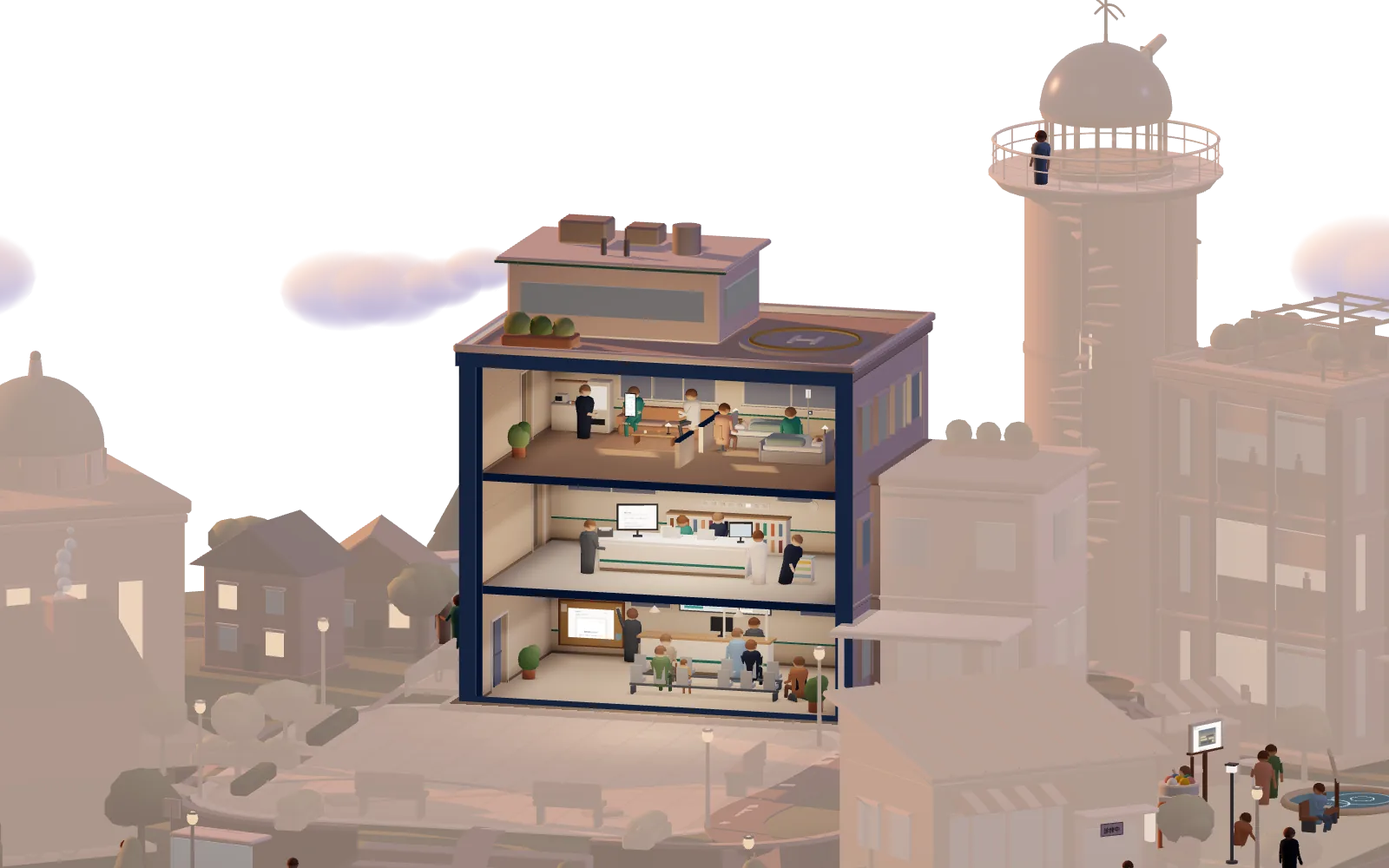
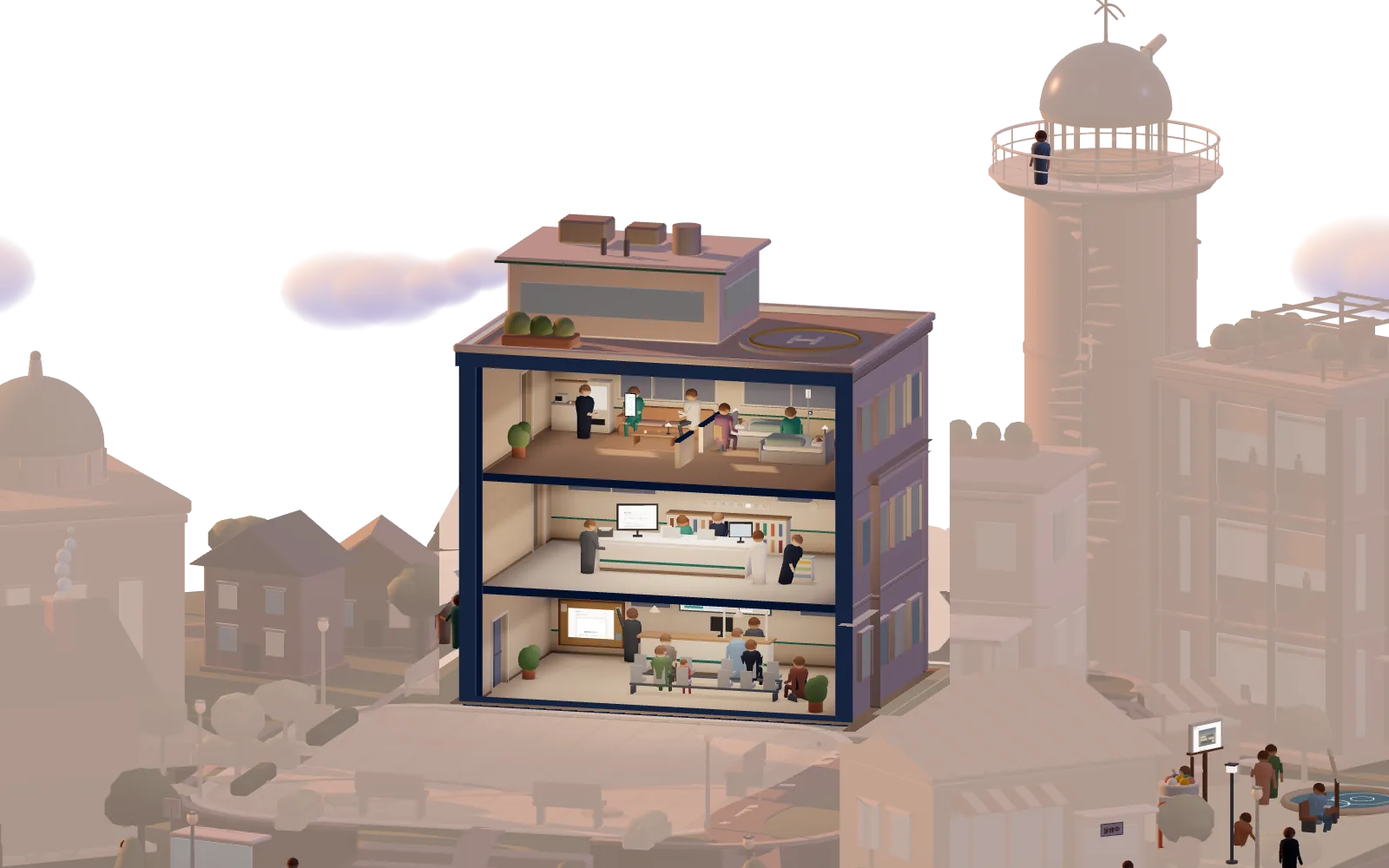
wip(top): 「ひらく町 v6」見直し 第1回・第2回の直し(一個の物として切り出す・夜の月の光・服の色・札を物の真上に・1.5画面・休憩室の灯り・背の低い画面・点描の区間)(途中保存)
Claude-Session: https://claude.ai/code/session_016dwt5JPBcjN3XLYgLUEaNS

diff --git a/proto/top-ad/hiraku6/live.js b/proto/top-ad/hiraku6/live.js
@@ -80,8 +80,9 @@ function arriveFrame(S, W, H, sf, small, hv, r1, el, F, cam) {
   let ppu, sy;
   if (small) {
     ppu = Math.min(84 * hv / 724 / (fh * Math.cos(el)), sw / (x1 - x0));
-    const gy = hv * .77;
-    if (gy - (y1 - g.y) * ppu < sf.t + 24) ppu = (gy - sf.t - 24) / (y1 - g.y);   // 塔屋が上の2行に近づきすぎるときは、小さく
+    let gy = hv * .77;
+    if (gy - (y1 - g.y) * ppu < sf.t + 24) gy = Math.min(sf.t + 24 + (y1 - g.y) * ppu, Math.max(gy, sf.b - 20));   // 背の低い画面: 塔屋が上の2行に近づきすぎるときは、まず地面の線を下の入口の上まで下げる
+    if (gy - (y1 - g.y) * ppu < sf.t + 24) ppu = (gy - sf.t - 24) / (y1 - g.y);   // それでも近づきすぎるときは、小さく
     sy = gy - (vF.y - g.y) * ppu;
   } else {
     ppu = Math.min(.62 * hv / (y1 - y0), sw * .8 / (x1 - x0));
@@ -113,6 +114,29 @@ function frontZone(S) {
 function markLocals(S) {
   const b = BOXES.hospital, ex = S.B.hospital.ex, fh = b.h / (b.floors || 3), out = b.w / 2 + E + WALL, z = b.d / 2 + E + .08;
   return { fl: [2, 1, 0].map(f => [out - .04, fh * f + fh * .84, z]), g: [0, -ex.y0, b.d / 2 + E + WALL] };
+}
+/* 道具の札の置き場(v6 見直し 第1回): その階の天井の前の切り口の線(両端を画面へ写す)の上で、横は物が画面に映る位置 sx。
+   斜めの視点では奥の物ほど右へ寄るので、前の面の同じ x を写すと三角が物の左を指す。W・H は画面の大きさ(100 なら枠の %) */
+function bandAt(group, fi, sx, cam, W, H) {
+  const b = BOXES.hospital, fh = b.h / (b.floors || 3), y = fh * (fi + 1) - .035, z = b.d / 2 + WALL + .01;
+  const a = group.localToWorld(new THREE.Vector3(-b.w / 2, y, z)).project(cam), c = group.localToWorld(new THREE.Vector3(b.w / 2, y, z)).project(cam);
+  const ax = (a.x + 1) / 2 * W, ay = (1 - a.y) / 2 * H, cx = (c.x + 1) / 2 * W, cy = (1 - c.y) / 2 * H;
+  return [sx, ay + (cy - ay) * (sx - ax) / (cx - ax)];
+}
+/* v6(見直し 第1回): 着いた病院を、一個の物として町から切り出す(world.js の HKAIR と FWIN が読む)。主棟と塔屋の箱、主棟の座標でのカメラの向きと画面の 8px(ch は画面の高さ CSS px)、
+   夜の月の光(右手前の上から。nk = 夜の度合い × 寄った度合い)。立体の舞台と止めた画像(capture の arrive=1)が同じものを使う */
+const MOON_L = new THREE.Vector3(.9, .25, .35).normalize(), MOON_I = .26, _md = new THREE.Vector3();   // 夜の右の側面(窓を除く)が L* 約50(案B と同じくらい。部屋より暗く)
+const AIR_LIT = .6;   // 着いたとき、病院の前の広場を照らす灯り(入口・弧のそばの藍と砂)を弱める割合
+function mainAir(S, cam, ch, nk) {
+  const b = BOXES.hospital, B = S.B.hospital;
+  B.anchor.updateWorldMatrix(true, false); U.uMainInv.value.copy(B.anchor.matrixWorld).invert();
+  U.uMainB.value.set(b.w / 2 + E + WALL + .09, b.d / 2 + E + WALL + .12);   // 主棟(角の付け柱・水切り・屋根の縁まで)。右の翼と車寄せは外
+  cam.updateMatrixWorld(); cam.getWorldDirection(_md).transformDirection(U.uMainInv.value);
+  U.uMainD.value.set(_md.x, _md.y, _md.z, 8 * (cam.top - cam.bottom) / ch);
+  U.uMainY.value.set(-B.ex.y0 - .01, b.h + .4, b.h, B.ex.top);
+  U.uMainP.value.set(-1.63, .39, -1.01, .41);   // 塔屋(buildings.js のセットバックした最上階と設備)
+  _md.copy(MOON_L).transformDirection(B.anchor.matrixWorld).transformDirection(cam.matrixWorldInverse);
+  U.uMoon.value.set(_md.x, _md.y, _md.z, MOON_I * nk);
 }
 
 /* ================================================================
@@ -159,16 +183,17 @@ export async function capture(Q) {
     if (!closed && !sect && !open5) U.uPM.value[2].copy(tb).multiply(new THREE.Matrix4().makeTranslation(0, 40, 0)).multiply(tbi);
     const arrive = Q.get('arrive') === '1' && cut === 'hospital';   // v6: 立体の到着の画(live の K1)とまったく同じ視点・枠で撮る(動きを減らす設定・WebGL なし・低性能の端末の「完成された断面画像」)
     if (arrive) {
-      const cw = +(Q.get('cw') || 393), ch = +(Q.get('ch') || 724), sm = cw < 921, sf = sm ? { l: 16, t: 110, r: cw - 16, b: ch - 86 } : { l: 40, t: 150, r: cw - 40, b: ch - 92 };
+      const cw = +(Q.get('cw') || 393), ch = +(Q.get('ch') || 724), sm = cw < 921, sf = sm ? { l: 16, t: 134, r: cw - 16, b: ch - 86 } : { l: 40, t: 150, r: cw - 40, b: ch - 92 };   // 上は 393×724 の「病院の中」と一文の下端(hiraku.js の scrubSafe)
       U.uRoofA.value = 1; U.uArcFade.value = 1; U.uPM.value[2].identity(); U.uPM.value[1].copy(tb).multiply(new THREE.Matrix4().makeTranslation(0, -200, 0)).multiply(tbi);   // 屋根は残し、前の壁は外す(沈んだ後)、広場の弧は消す
-      U.uFocus.value = LAYOUT.hospital.bid; U.uDim.value = .2; U.uAir.value = 1; U.uMainB.value.set(bx.w / 2 + E + WALL + .09, bx.d / 2 + E + WALL + .12);
+      U.uFocus.value = LAYOUT.hospital.bid; U.uDim.value = .2; U.uAir.value = 1;
       const F = pl.p.clone().add(new THREE.Vector3(0, (bx.h - b.ex.y0) / 2, 0)), r1 = deg(pl.face - 45) + deg(+(Q.get('turn') ?? -16)), el1 = deg(+(Q.get('el') ?? 11));
       const K = arriveFrame(S, cw, ch, sf, sm, ch, r1, el1, F, camera);
       S.world.rotation.y = r1; S.world.updateMatrixWorld(true);
-      b.anchor.updateWorldMatrix(true, false); U.uMainInv.value.copy(b.anchor.matrixWorld).invert();
       aimCamera(camera, new THREE.Vector3(), el1);
       const v = F.clone().applyAxisAngle(AY, r1).applyMatrix4(camera.matrixWorldInverse), cx = v.x - (K.sx - cw / 2) / K.ppu, cy0 = v.y + (K.sy - ch / 2) / K.ppu;
       camera.left = cx - cw / 2 / K.ppu; camera.right = cx + cw / 2 / K.ppu; camera.top = cy0 + ch / 2 / K.ppu; camera.bottom = cy0 - ch / 2 / K.ppu; camera.updateProjectionMatrix();
+      mainAir(S, camera, ch, clamp01((tod - 1.2) / .8));   // 一個の物として切り出す・夜の月の光(立体の舞台と同じ)
+      L.pH.intensity *= (1 - 1.4 * U.uDim.value) * (1 - AIR_LIT); L.pI.intensity *= 1 - AIR_LIT; L.pS.intensity *= 1 - AIR_LIT;   // 広場を照らす灯りも、立体の舞台と同じだけ弱める
       const fc = makeFrameCut(b.anchor); fc.g.visible = true; fc.mat.opacity = 1;   // 外枠の太い切り口
       placePeople(S.dyn, t, null, frontZone(S));   // 正面の広場に人を立たせない(立体の舞台と同じ)
     } else {
@@ -231,7 +256,7 @@ export async function capture(Q) {
       for (const q of s.quad || []) { const v = new THREE.Vector3(...q).applyMatrix4(it.group.matrixWorld).project(camera); x0 = Math.min(x0, v.x); x1 = Math.max(x1, v.x); y0 = Math.min(y0, v.y); y1 = Math.max(y1, v.y); }
       if (x0 <= x1) st[s.id] = [...pc(x0, y1), ...pc(x1, y0)];
       const FIX = { yawagaeshi: 2, nidodema: 1, keiji: 0 };   // 札の置き場(その階の天井の切り口。物の真上)。枠の %。階と道具の対応は BRIEF 14.2
-      if (cut === 'hospital' && FIX[s.id] !== undefined) { const fh = bx.h / (bx.floors || 3), v = new THREE.Vector3(s.anchor.x, fh * (FIX[s.id] + 1) - .035, bx.d / 2 + WALL + .01).applyMatrix4(it.group.matrixWorld).project(camera); band[s.id] = pc(v.x, v.y); }
+      if (cut === 'hospital' && FIX[s.id] !== undefined) { const v = s.anchor.clone().applyMatrix4(it.group.matrixWorld).project(camera); band[s.id] = bandAt(it.group, FIX[s.id], (v.x + 1) / 2 * 100, camera, 100, 100).map(q => +q.toFixed(2)); }
     }
   }
   let marks = null;   // v6: 階の印(3F・2F・1F)と正面の地面の線(枠の %)。ページが止めた画像の上に置く
@@ -440,13 +465,14 @@ export async function live(o) {
      ひらき方: 屋根は残す(ヘリポートで病院と分かり、3階だけ背が高く見えない)。前の壁は町と同じ手つきで倒れ、倒れきったら広場の面の下へ沈む(uGroundCut)。広場の弧は寄るにつれて点描で消す(1階に掛けない) */
   const smooth = (a, b, x) => { const t = clamp01((x - a) / (b - a)); return t * t * (3 - 2 * t); };
   const ease = t => (t = clamp01(t)) < .5 ? 4 * t * t * t : 1 - Math.pow(-2 * t + 2, 3) / 2;   // 出だしと着きがやわらかい(臨界減衰のばね sp を、さらに通す)
-  // 進み p の区切り(調整はここだけ。舞台は 1.8 画面ぶん: 寄る・ひらく 約0.8 + ぜんたい 約1.0)。floors: 階ごとに [その階の札と灯りになる p, 次の階へ]
-  // v6(designer の配分): 寄る .03–.36(約0.6画面)・町を空気へ溶かす .06–.34・弧を消す .05–.2・前の壁が倒れる .22–.35・中の灯り .24–.38・壁が沈み外枠と階の印が出る .35–.42・ぜんたい .36–.58(約0.4画面)・3F .58 / 2F .72 / 1F .86–1
-  const SQ = { move: [.03, .36], dim: [.06, .34], air: [.06, .34], arcs: [.05, .2], wall: [.22, .35], sink: [.35, .42], light: [.24, .38], frame: [.35, .42], floors: [[.58, .72], [.72, .86], [.86, 9]] };
+  // 進み p の区切り(調整はここだけ。舞台は 1.5 画面ぶん: 寄る・ひらく 約0.65 + ぜんたいと階 約0.85)。floors: 階ごとに [その階の札と灯りになる p, 次の階へ]
+  // v6(designer の配分。見直し 第1回で 1.8 → 1.5 画面に): 寄る .036–.43(約0.65画面。長さは前のまま)・町を空気へ溶かす .072–.41・弧を消す .06–.24・前の壁が倒れる .25–.37・中の灯り .27–.42・
+  //   壁が沈む .36–.42・外枠と階の印 .38–.43(カメラが止まるこまでに、沈みきって出きる)・上の一文 .45–.49(hiraku.js)・3F .565 / 2F .7 / 1F .835–1(着いてから 3F まで・階の間は 0.2画面、1F から終わりまで 0.25画面)
+  const SQ = { move: [.036, .43], dim: [.072, .41], air: [.072, .41], arcs: [.06, .24], wall: [.25, .37], sink: [.36, .42], light: [.27, .42], frame: [.38, .43], floors: [[.565, .7], [.7, .835], [.835, 9]] };
   const FLOOR_OF = [['yawagaeshi', 2], ['nidodema', 1], ['keiji', 0]];   // 降りる順: 3階 休憩室(やわ返)→ 2階 ナースステーション(二度手間さがし)→ 1階 受付と待合(掲示じたく)。BRIEF 14.2
   const FI = { yawagaeshi: 2, nidodema: 1, keiji: 0 };
   // 中の灯りの高さ(階の数。0 = 1階)。着いた直後は建物の中ほど、そこから p に合わせて 3F → 2F → 1F へ続けて降り、各階の真ん中で少し留まる(段にしない)
-  const LF = [[.52, 1.24], [.6, 2], [.68, 2], [.76, 1], [.82, 1], [.9, 0]];
+  const LF = [[.47, 1.24], [.585, 2], [.65, 2], [.72, 1], [.78, 1], [.855, 0]];
   const lightF = x => { if (x <= LF[0][0]) return LF[0][1]; for (let i = 1; i < LF.length; i++) if (x <= LF[i][0]) return LF[i - 1][1] + (LF[i][1] - LF[i - 1][1]) * smooth(LF[i - 1][0], LF[i][0], x); return LF[LF.length - 1][1]; };
   const QS = new URLSearchParams(location.search), EL1 = deg(+(QS.get('el1') ?? 11)), TURN1 = deg(+(QS.get('turn') ?? -16)), KEEP_WALL = QS.get('wall') === 'keep';   // ぜんたいを見る角度は 14°(屋根を残したまま、3階の奥のソファの人と道具が天井の板に隠れない角度。20°では隠れる)。el1・turn(横の面を見せる回し。既定 0): 見比べるため / wall=keep: 倒れた壁を沈めない(前の版の見え方と比べるため)
   function scrubKeys() {
@@ -508,14 +534,13 @@ export async function live(o) {
     gate.set(it ? 1 : 0);
     scrub = { r0, kf: null, sid: null, fi: -1, lit: false, t: 0 };
     U.uGroundCut.value = groundY();
-    { const b = BOXES[SCRUB_ID]; U.uMainB.value.set(b.w / 2 + E + WALL + .09, b.d / 2 + E + WALL + .12); }   // 主棟(角の付け柱・水切り・屋根の縁まで)。右の翼と車寄せは外
     frameCut(); frameG.visible = true; if (!hideF) hideF = frontZone(S);
   }
   function endScrub() {
     const it = interiors[SCRUB_ID];
     if (it) { for (const s of it.stations) { s.setActive(false); s.setHover(false); } it.group.visible = false; }
     const r0 = scrub.r0; scrub = null;
-    A = slot(); U.uOpenA.value = -1; U.uFocus.value = -1; U.uGroundCut.value = -1e4; U.uArcFade.value = 0; U.uAir.value = 0;
+    A = slot(); U.uOpenA.value = -1; U.uFocus.value = -1; U.uGroundCut.value = -1e4; U.uArcFade.value = 0; U.uAir.value = 0; U.uMoon.value.w = 0;
     if (frameG) { frameG.visible = false; frameMat.opacity = 0; }
     dim.set(0); inLight.set(0); gate.set(0); sp.set(0); curStation = null; findC = null; nearK.set(0);
     preRot = r0; rot.set(r0); elev.set(ELEV); camX.set(base.x); camY.set(base.y); camZ.set(Math.log(base.ppu));
@@ -530,8 +555,7 @@ export async function live(o) {
     gate.t = it ? 1 : 0;
     const g = gate.x, wallK = smooth(SQ.wall[0], SQ.wall[1], x) * g, sinkK = smooth(SQ.sink[0], SQ.sink[1], x) * g;
     dim.set(.2 * smooth(SQ.dim[0], SQ.dim[1], x));   // 色を抜くのは .2 まで(暗くはしない)
-    U.uAir.value = smooth(SQ.air[0], SQ.air[1], x);   // 主棟のほかを、その時刻の空気の色へ(world.js の HKAIR)
-    S.B[SCRUB_ID].anchor.updateWorldMatrix(true, false); U.uMainInv.value.copy(S.B[SCRUB_ID].anchor.matrixWorld).invert();
+    U.uAir.value = smooth(SQ.air[0], SQ.air[1], x);   // 主棟のほかを、その時刻の空気の色へ(world.js の HKAIR。主棟の箱と月の光は、カメラを決めたあとに mainAir で)
     if (frameMat) frameMat.opacity = smooth(SQ.frame[0], SQ.frame[1], x) * g;   // 外枠の太い切り口(案B の frameCut)は、壁が沈むのに合わせて
     U.uArcFade.value = smooth(SQ.arcs[0], SQ.arcs[1], x);
     A.roof.set(0); A.wall.set(A.end * wallK); A.sink = KEEP_WALL ? 0 : sinkK * (S.B[SCRUB_ID].ex.y0 + .24);   // 屋根は残す。壁は倒れきってから、広場の面の下へ
@@ -777,11 +801,7 @@ export async function live(o) {
     for (const s of it.stations) {
       v3.copy(s.anchor); it.group.localToWorld(v3); v3.project(camera);
       const o2 = { id: s.id, label: s.label, x: (v3.x + 1) / 2 * W + r.left * 0, y: (1 - v3.y) / 2 * H, rad: Math.max(22, (s.radius || .2) * ppu) };
-      if (scrub && FI[s.id] !== undefined) {   // 案A: 札は、物の真上の、その階の天井(上の階との間の藍の帯)の切り口に置く
-        const bx = BOXES[SCRUB_ID], fh = bx.h / (bx.floors || 3), fi = FI[s.id];
-        v3.set(s.anchor.x, fh * (fi + 1) - .035, bx.d / 2 + WALL + .01); it.group.localToWorld(v3); v3.project(camera);
-        o2.band = [(v3.x + 1) / 2 * W, (1 - v3.y) / 2 * H]; o2.fi = fi;
-      }
+      if (scrub && FI[s.id] !== undefined) { o2.band = bandAt(it.group, FI[s.id], o2.x, camera, W, H); o2.fi = FI[s.id]; }   // 案A: 札は、物の真上の、その階の天井(上の階との間の藍の帯)の前の切り口に置く
       out.push(o2);
     }
     return out;
@@ -947,17 +967,20 @@ export async function live(o) {
         L.pIn.position.copy(il.p).applyAxisAngle(Y, pl.yaw).add(pl.p); L.pIn.distance = il.dist; inK = il.k; }
     }
     L.pIn.intensity = Math.max(0, inLight.x) * (1.4 + U.uNight.value * 2) * inK;
-    L.pH.intensity = (L.pH.userData.base || 0) * ((A.id || Bk.id) === 'plaza' ? 1 : 1 - 1.4 * U.uDim.value);   // 建物をひらいている間は、広場の灯りを半分に(寄ったとき白く飛ばない)
+    const airK = 1 - AIR_LIT * U.uAir.value;   // v6: 着いた病院の前の広場を照らす灯り(入口と、弧のそばの藍と砂)は、寄るのに合わせて弱める(広場の床を部屋より明るくしない)
+    L.pH.intensity = (L.pH.userData.base || 0) * ((A.id || Bk.id) === 'plaza' ? 1 : 1 - 1.4 * U.uDim.value) * airK;   // 建物をひらいている間は、広場の灯りを半分に(寄ったとき白く飛ばない)
+    L.pI.intensity = L.pS.intensity = 5.5 * U.uArc.value * airK;
     // 町の暮らし(止めているあいだに時刻を変えたときも、空・雲・もやの色だけは合わせる)
     if (paused && tod.moving) placeSky(S.dyn, t, U.uNight.value);
     if (!paused) {
       const blockedAng = A.id && A.kind === 'hinge' && A.id !== 'hospital' ? deg(LAYOUT[A.id].a) : null;
       const blocked = A.id && A.kind === 'hinge' ? footprint(A) : null;
-      placePeople(S.dyn, t, blocked, scrub && sp.x > .12 ? hideF : null); placeVehicles(S.dyn, t, dt, blockedAng); placeSky(S.dyn, t, U.uNight.value); placeSmall(S.dyn, t, !(A.id === 'atelier'));
+      placePeople(S.dyn, t, blocked, scrub && sp.x > .14 ? hideF : null); placeVehicles(S.dyn, t, dt, blockedAng); placeSky(S.dyn, t, U.uNight.value); placeSmall(S.dyn, t, !(A.id === 'atelier'));
     }
     for (const id in interiors) { const it = interiors[id]; if (it && it.group.visible) it.update(dt, t, tod.x < .5 ? 'day' : tod.x < 1.5 ? 'dusk' : 'night'); }
     S.world.rotation.y = rot.x;
     setCamera();
+    if (scrub) mainAir(S, camera, H, clamp01((tod.x - 1.2) / .8) * U.uAir.value);   // 着いた病院を切り出す箱と、夜の月の光(寄るのに合わせて)
     if (arriveId && (A.id !== arriveId || ![rot, camX, camY, camZ, elev, fly].some(s => s.moving))) { const id = arriveId; arriveId = null; if (A.id === id) o.onArrive && o.onArrive(id); }
     const active = springs.some(s => s.moving) || [A, Bk].some(s => s.id && (s.wall.moving || s.roof.moving || s.steps.length || s.roofT0 >= 0)) || later.length || grow || down || Math.abs(inertia) > .002 || invite;
     const idle = !active && now - lastInput > 1600;

diff --git a/proto/top-ad/hiraku6/hiraku.js b/proto/top-ad/hiraku6/hiraku.js
@@ -531,7 +531,7 @@ function boot() {
   menu.addEventListener('close', () => menuBtn.focus());
 
   /* ---------- 案A: スクロールで、町の病院に寄り、中へ(最初の画面は止めたまま) ----------
-     進み p = 舞台(最初の画面と、その下の寄る道のり 1.8 画面)をどれだけ下りたか(0..1)。立体があれば live.js の scrubTo(p) へ渡し、
+     進み p = 舞台(最初の画面と、その下の寄る道のり 1.5 画面)をどれだけ下りたか(0..1)。立体があれば live.js の scrubTo(p) へ渡し、
      言葉と札は、カメラと同じ(ばねでなめらかにした)進みで出し入れする(onLayout から)。カメラはひらいた病院ぜんたいで止まり、
      そのあとは 3階 → 2階 → 1階 と、その階の道具の札と灯りだけが降りる(見出しの場所にその階の居場所、一文の場所にその道具の一行)。
      札は、着いたあとは出たまま(演出に中身の見え方を預けない)。物の真上の、その階の天井(上の階との間の藍の帯)に置く。
@@ -542,13 +542,13 @@ function boot() {
   const SM = (a, b, x) => { const t = Math.max(0, Math.min(1, (x - a) / (b - a))); return t * t * (3 - 2 * t); };
   // ひらいた病院の止めた画像(img/open-<時刻>-<sp|pc>.webp)。w・h は画像の大きさ、band は札の置き場(その道具の階の天井の切り口。画像の %。capture=cutaway&open5=1 の出力)
   // ひらいた病院の止めた画像(img/open-<時刻>-<sp|pc>.webp。到着の画と同じ視点・同じ枠: capture=cutaway&id=hospital&arrive=1。撮り方は tools/README.md)。
-  // band は道具の札の置き場(その道具の階の天井の切り口。物の真上)、fl は階の印(3F・2F・1F)、gy は正面の地面の線。どれも画像の %(撮ったときの出力)
-  const STILL_SP = { w: 786, h: 1448, band: { yawagaeshi: [25.72, 41.34], nidodema: [31.66, 53.12], keiji: [16.63, 64.27] }, fl: [[78.25, 44.32], [78.25, 55.92], [78.25, 67.52]], gy: 76.93 };
-  const STILL_PC = { w: 1600, h: 1000, band: { yawagaeshi: [40.76, 42.98], nidodema: [43.02, 56.19], keiji: [37.3, 68.7] }, fl: [[60.75, 46.33], [60.75, 59.34], [60.75, 72.35]], gy: 82.9 };
+  // band は道具の札の置き場(その道具の階の天井の前の切り口の上で、横は物が画面に映る位置。live.js の bandAt)、fl は階の印(3F・2F・1F)、gy は正面の地面の線。どれも画像の %(撮ったときの出力)
+  const STILL_SP = { w: 786, h: 1448, band: { yawagaeshi: [37.84, 41.7], nidodema: [39.23, 53.34], keiji: [30.45, 64.68] }, fl: [[78.25, 44.32], [78.25, 55.92], [78.25, 67.52]], gy: 76.93 };
+  const STILL_PC = { w: 1600, h: 1000, band: { yawagaeshi: [45.37, 43.39], nidodema: [45.9, 56.45], keiji: [42.56, 69.16] }, fl: [[60.75, 46.33], [60.75, 59.34], [60.75, 72.35]], gy: 82.9 };
   const OPEN_STILL = {};
   for (const t of TODS) { OPEN_STILL[t + '-sp'] = STILL_SP; OPEN_STILL[t + '-pc'] = STILL_PC; }
   // 階ごとに降りる区切り(live.js の SQ.floors と同じ)。止めた画像のときも、札と一行は同じ進みで降りる
-  const FLOORS = [['yawagaeshi', .58, .72], ['nidodema', .72, .86], ['keiji', .86, 9]];   // 3F 休憩室(やわ返)→ 2F ナースステーション(二度手間さがし)→ 1F 受付(掲示じたく)。BRIEF 14.2
+  const FLOORS = [['yawagaeshi', .565, .7], ['nidodema', .7, .835], ['keiji', .835, 9]];   // 3F 休憩室(やわ返)→ 2F ナースステーション(二度手間さがし)→ 1F 受付(掲示じたく)。BRIEF 14.2
   const floorAt = q => { for (const [sid, a, b] of FLOORS) if (q >= a && q < b) return sid; return null; };
   const HOSP_O = '52.19% 34.02%';   // 町の止めた画像の中の病院(押せる範囲の真ん中)。止めた画像を寄せるときの中心
   let rawP = 0, chipPos = {}, lastQ = -1, lastSid, sq = 0;
@@ -568,22 +568,22 @@ function boot() {
   const svhEl = document.createElement('div'); svhEl.setAttribute('aria-hidden', 'true'); svhEl.style.cssText = 'position:absolute;left:0;top:0;width:0;height:100svh;visibility:hidden;pointer-events:none'; document.body.append(svhEl);
   const svhH = () => svhEl.offsetHeight || innerHeight;
   const show = (e, k) => { e.style.opacity = k.toFixed(3); e.classList.toggle('off', k <= .01); };   // 透明で隠すだけ(読み上げの順には残す)。押せるのは見えている間だけ
-  // v6(designer の順序): 寄る間は文字なし → 着いたら絵だけ → 上に「病院の中」と一文(.40–.46)→ 階ごとに居場所と道具の一行(.58・.72・.86)、
-  // その階の札が物の上に出る(出た札は、目立たない見た目で残る)→ 下の入口(.58–.64)。外枠と階の印は壁が沈むのに合わせて(mk.fk)。下の帯は着く前から
+  // v6(designer の順序。区切りは 1.5 画面の舞台の p): 寄る間は文字なし → 着いたら(.43)絵だけ → 上に「病院の中」と一文(.45–.49)→ 階ごとに居場所と道具の一行(.565・.7・.835)、
+  // その階の札が物の上に出る(出た札は、目立たない見た目で残る)→ 下の入口(1F と一緒に .84–.88)。外枠と階の印は壁が沈むのに合わせて(mk.fk)。下の帯は着く前から
   function overlays(q, sid, mk) {
     if (q === lastQ && q === 0) return;
     lastQ = q;
-    const cp = 1 - SM(.02, .12, q);
+    const cp = 1 - SM(.024, .144, q);
     R.style.setProperty('--cp', cp.toFixed(3));   // 最初の画面の言葉と入口
     R.classList.toggle('cp-off', cp < .02);       // 消えきったら Tab と読み上げからも外す
-    R.style.setProperty('--mk', (1 - SM(.06, .34, q)).toFixed(3));  // 島の下のもや
-    R.style.setProperty('--hz', Math.max(phone() ? 0 : SM(.04, .16, q), SM(.24, .4, q)).toFixed(3));   // 見出しの帯の下の霞(中が上まで来たら。PC は寄り始めから)
-    R.style.setProperty('--ek', SM(.3, .4, q).toFixed(3));   // 下の帯: 正面の地面の線の 40px 下から、下の入口の文字の高さまでで地の色へ(次の面の上の色と同じ)
+    R.style.setProperty('--mk', (1 - SM(.072, .41, q)).toFixed(3));  // 島の下のもや
+    R.style.setProperty('--hz', Math.max(phone() ? 0 : SM(.048, .192, q), SM(.288, .48, q)).toFixed(3));   // 見出しの帯の下の霞(中が上まで来たら。PC は寄り始めから)
+    R.style.setProperty('--ek', SM(.36, .48, q).toFixed(3));   // 下の帯: 正面の地面の線の 40px 下から、下の入口の文字の高さまでで地の色へ(次の面の上の色と同じ)
     const hr = heroRect(), cr = canvas.getBoundingClientRect(), ox = cr.left - hr.left, oy = cr.top - hr.top;
     const gy = mk && mk.gy != null ? oy + mk.gy : stillMarks && stillMarks.gy;
     if (gy != null) { R.style.setProperty('--gy', gy.toFixed(1) + 'px'); R.style.setProperty('--bf', Math.max(80, svhH() - 38 - (gy + 40)).toFixed(1) + 'px'); }
-    show(ins, SM(.4, .46, q));
-    show(insGo, SM(.58, .64, q));
+    show(ins, SM(.45, .49, q));
+    show(insGo, SM(.84, .88, q));   // 下の入口は 1F と一緒に(見直し 第1回)
     // 階: その階の道具の一行を、上の一文の場所に(替わるときは .25 秒で)。ぜんたいに着いた直後は、いつもの一文
     if (sid === undefined) sid = floorAt(q);
     if (sid !== lastSid) {
@@ -603,7 +603,7 @@ function boot() {
       c.style.setProperty('--ax', (p.x - x).toFixed(1) + 'px');   // 三角は、ずらしたぶん物の真上へ
     }
     // 階の印(右の外枠): 立体のときは外枠の濃さと位置を立体から、止めた画像のときは撮ったときの置き場から
-    const fk = mk ? mk.fk : SM(.35, .42, q), fl = mk && mk.fl ? mk.fl.map(([x, y]) => [ox + x, oy + y]) : stillMarks && stillMarks.fl;
+    const fk = mk ? mk.fk : SM(.38, .43, q), fl = mk && mk.fl ? mk.fl.map(([x, y]) => [ox + x, oy + y]) : stillMarks && stillMarks.fl;
     for (let i = 0; i < flms.length; i++) {
       const e = flms[i], pt = fl && fl[i];
       e.style.opacity = pt ? fk.toFixed(3) : '0';
@@ -613,13 +613,13 @@ function boot() {
   // 動かないときの止めた画像(時刻 × スマホ・PC)。札の位置は、撮ったときの札の置き場(画像の %)
   let shutKey = null, shutBand = null, shutD = null, stillMarks = null;   // stillMarks: 止めた画像のときの階の印と、正面の地面の線(ページの座標)
   function stillScrub(q) {
-    const on = q >= .3, key = R.dataset.tod + (phone() ? '-sp' : '-pc');
-    if (q > .1 && shutKey !== key) {   // 替わる少し前に読み始める
+    const on = q >= .36, key = R.dataset.tod + (phone() ? '-sp' : '-pc');
+    if (q > .12 && shutKey !== key) {   // 替わる少し前に読み始める
       shutKey = key; const D = OPEN_STILL[key];
       shutBand = D ? D.band : null; shutD = D || null; if (D) { shutImg.width = D.w; shutImg.height = D.h; shutImg.src = 'img/open-' + key + '.webp'; }
     }
     // 寄せる: 動きを減らす設定でなければ、町の止めた画像を病院へ(替わるまで)。立体を止めた舞台(低性能の端末)では、止めた立体の絵を寄せる
-    const z = reduce() ? 1 : 1 + (stageStill === true ? .5 : .85) * SM(.03, .3, q), zEl = stageStill === true ? canvas : poster;   // 立体を止めた絵を寄せるのは 1.5 倍まで(画素比 1 でぼけないように)
+    const z = reduce() ? 1 : 1 + (stageStill === true ? .5 : .85) * SM(.036, .36, q), zEl = stageStill === true ? canvas : poster;   // 立体を止めた絵を寄せるのは 1.5 倍まで(画素比 1 でぼけないように)
     zEl.style.transformOrigin = stageStill === true ? stillO : HOSP_O; zEl.style.transform = z > 1.001 ? `scale(${z.toFixed(4)})` : '';
     R.classList.toggle('shut-on', on && !!shutImg.naturalWidth);
     chipPos = {}; stillMarks = null;
@@ -657,7 +657,7 @@ function boot() {
   });
   // キーボードで一覧への入口に来たら、それが見える所(ひらいた病院ぜんたい)まで舞台を進める
   const goA = $('a', insGo);
-  if (goA) goA.addEventListener('focus', () => { if (rawP < .6) scrollTo({ top: stage.getBoundingClientRect().top + scrollY + span() * .62, behavior: reduce() ? 'auto' : 'smooth' }); });   // 下の入口が出る所(.58–.64)まで
+  if (goA) goA.addEventListener('focus', () => { if (rawP < .86) scrollTo({ top: stage.getBoundingClientRect().top + scrollY + span() * .9, behavior: reduce() ? 'auto' : 'smooth' }); });   // 下の入口が出る所(1F。.84–.88)まで
   // 舞台を過ぎたら、見出しの帯を小さく上に固定。夜は夜の色の帯
   const hdNight = () => R.classList.toggle('hd-night', R.dataset.tod === 'night');
   hdNight(); btnTod.addEventListener('click', hdNight);
@@ -733,7 +733,7 @@ function boot() {
         },
         scrubSafe() {   // 案A: 寄った病院を置く範囲(上は「病院の中」の見出しと一文、下は一覧への入口を避ける)。下は帯が出ているときの画面(svh)の中に(帯が畳まれると、広場が下に少し多く見えるだけで、病院は動かない)
           const w = canvas.clientWidth, h = Math.min(canvas.clientHeight, svhH());
-          if (phone()) return { l: 16, t: 110, r: w - 16, b: h - 86 };   // 上は「病院の中」と一文の下端、左右は 16px
+          if (phone()) return { l: 16, t: Math.max(110, Math.ceil(ins.getBoundingClientRect().bottom - heroRect().top)), r: w - 16, b: h - 86 };   // 上は「病院の中」と一文の下端(いちばん長い一行が折り返した高さ。言葉の格子の高さ)、左右は 16px
           return { l: 40, t: 150, r: w - 40, b: h - 92 };
         },
         onScrubEnd() { chipPos = {}; overlays(0); },

diff --git a/proto/top-ad/hiraku6/world.js b/proto/top-ad/hiraku6/world.js
@@ -87,6 +87,10 @@ export const U = {
   uHi: { value: -1 }, uHiAmt: { value: 0 }, uHiColor: { value: new THREE.Color('#FFE7C2') },
   uFocus: { value: -1 }, uDim: { value: 0 },
   uAir: { value: 0 }, uMainInv: { value: new THREE.Matrix4() }, uMainB: { value: new THREE.Vector2(0, 0) },   // v6: 病院に着いたとき、主棟(uFocus の建物の uMainB の内側)のほかを、光の計算のあとでその時刻の空気(uHazeC)へ溶かす割合(建物 .45・地面 .25)。最初の画面は 0
+  // v6(見直し 第1回): 主棟の外形に重なる物と、画面で 8px 以内に接する物は .85 まで溶かす(一個の物として切り出す)。uMainD = 主棟の座標でのカメラの向き(xyz)と余白(w)、
+  // uMainY = 主棟の高さの範囲(x 下・y 上)と塔屋の高さの範囲(z・w)、uMainP = 塔屋の x の範囲(x・y)と z の範囲(z・w)
+  uMainD: { value: new THREE.Vector4(0, 0, -1, 0) }, uMainY: { value: new THREE.Vector4(0, 0, 0, 0) }, uMainP: { value: new THREE.Vector4(0, 0, 0, 0) },
+  uMoon: { value: new THREE.Vector4(0, 0, 1, 0) }, uMoonC: { value: new THREE.Color('#B9C7F2') },   // v6: 夜に着いた病院の主棟に、右手前の上からの月の光(向きはカメラの座標、w は強さ。案B と同じ向き)。最初の画面は 0
   uOpenA: { value: -1 }, uOpenB: { value: -1 }, uRoofA: { value: 1 }, uRoofB: { value: 1 },
   uLiftBid: { value: -1 }, uLift: { value: 0 },
   uPM: { value: Array.from({ length: 8 }, () => new THREE.Matrix4()) },
@@ -121,11 +125,23 @@ vFx = aFx; vBid = aBid; vWin = aWin; vCut = hkC; vHkW = (modelMatrix * vec4(tran
 const FCOMMON = `
 uniform float uNight; uniform float uTime; uniform float uHi; uniform float uHiAmt; uniform vec3 uHiColor;
 uniform float uGroundCut; uniform float uArcFade; uniform float uAir; uniform mat4 uMainInv; uniform vec2 uMainB;
+uniform vec4 uMainD; uniform vec4 uMainY; uniform vec4 uMainP; uniform vec4 uMoon; uniform vec3 uMoonC;
 uniform float uFocus; uniform float uDim; uniform vec3 uGlowW; uniform vec3 uGlowI; uniform vec3 uGlowS; uniform vec3 uGlowC; uniform vec3 uGlowL; uniform vec3 uGlowK; uniform vec3 uHazeC; uniform float uHazeK; uniform float uArc; uniform float uRim; uniform vec3 uGlowR; uniform vec3 uGlowV; uniform float uDay; uniform vec3 uJoint;
 varying vec2 vFx; varying float vBid; varying float vWin; varying float vCut; varying float vHkY; varying vec3 vHkW;
 float hkBayer(vec2 p) { vec2 q = mod(floor(p), 4.0); float i = q.x + q.y * 4.0;
   return (i < 1.0 ? 0. : i < 2.0 ? 8. : i < 3.0 ? 2. : i < 4.0 ? 10. : i < 5.0 ? 12. : i < 6.0 ? 4. : i < 7.0 ? 14. : i < 8.0 ? 6. : i < 9.0 ? 3. : i < 10.0 ? 11. : i < 11.0 ? 1. : i < 12.0 ? 9. : i < 13.0 ? 15. : i < 14.0 ? 7. : i < 15.0 ? 13. : 5.) / 16.0 + 1.0 / 32.0; }
-float hkHash(float n) { return fract(sin(n) * 43758.5453123); }`;
+float hkHash(float n) { return fract(sin(n) * 43758.5453123); }
+void hkSlab(float p, float d, float lo, float hi, inout vec2 t) {
+  if (abs(d) < 1e-5) { if (p < lo || p > hi) t = vec2(1.0, -1.0); return; }
+  float a = (lo - p) / d, b = (hi - p) / d; t = vec2(max(t.x, min(a, b)), min(t.y, max(a, b)));
+}
+/* 主棟の座標の点 p を通る視線が、箱(まわりに余白 uMainD.w)を通る区間 [x, y](t はカメラから奥へ。通らなければ x > y)。
+   通る = 画面で外形に重なるか 8px 以内に接する。x が正 = 箱より手前の物 */
+vec2 hkSpan(vec3 p, vec3 lo, vec3 hi) {
+  float m = uMainD.w; vec2 t = vec2(-1e9, 1e9);
+  hkSlab(p.x, uMainD.x, lo.x - m, hi.x + m, t); hkSlab(p.y, uMainD.y, lo.y - m, hi.y + m, t); hkSlab(p.z, uMainD.z, lo.z - m, hi.z + m, t);
+  return t;
+}`;
 /* 夜の窓: 建物ごとに違う灯り方(wid = 4096 × 灯り方 + 番号)
    0 ふつう(6割が、ときどき入れ替わる)/ 1 規則的(病院: 白く、決まった窓が点く)/ 2 まばら(事務所)/ 3 ほとんど点く(図書館)/ 4 いつも点く */
 const FWIN = `
@@ -146,13 +162,25 @@ totalEmissiveRadiance += uGlowR * (1.0 - step(.5, abs(gk - 10.0))) * uRim * 1.4;
 totalEmissiveRadiance += uGlowV * (1.0 - step(.5, abs(gk - 11.0))) * uRim * .4;   // 夕方: 藍の弧の上の縁が、空の藤色を拾う(冷たく、金より控えめ)
 totalEmissiveRadiance += vec3(.007, .01, .027) * (1.0 - step(.5, abs(gk - 2.0))) * uRim;   // 夕方: 藍の弧の影絵に、藍が残る程度の空の照り返し
 totalEmissiveRadiance += uHiColor * (1.0 - step(.5, abs(vBid - uHi))) * uHiAmt;
-if (uAir > .001 && abs(vBid - uFocus) < .5) totalEmissiveRadiance *= 1.0 - .9 * uAir;   // v6: 着いた病院の外の灯り(塔屋の帯の窓・横の窓)は、部屋より明るくしない(いちばん明るいのは部屋)`;
+if (uAir > .001) totalEmissiveRadiance *= 1.0 - .9 * uAir;   // v6: 着いた病院の外の灯り(塔屋の帯の窓・横の窓)と、町の灯り(広場の街灯の頭・窓)は、部屋より明るくしない(いちばん明るいのは部屋)
+if (uMoon.w > .001 && abs(vBid - uFocus) < .5) { vec3 hkLm = (uMainInv * vec4(vHkW, 1.0)).xyz; if (abs(hkLm.x) < uMainB.x && abs(hkLm.z) < uMainB.y) totalEmissiveRadiance += diffuseColor.rgb * uMoonC * uMoon.w * max(dot(normal, uMoon.xyz), 0.0); }   // v6: 夜の主棟の月の光(右の側面が夜空の中で読めるように)`;
 /* v6: 病院に着いたとき、町を暗くせず、光の計算のあとでその時刻の空気の色へ溶かす(主役は切った主棟だけ。右の翼・車寄せ・広場・ほかの建物は溶かす側) */
 const HKAIR = `
 if (uAir > .001) {
   vec3 hkL = (uMainInv * vec4(vHkW, 1.0)).xyz;
-  float hkMain = abs(vBid - uFocus) < .5 && abs(hkL.x) < uMainB.x && abs(hkL.z) < uMainB.y ? 0.0 : 1.0;
-  gl_FragColor.rgb = mix(gl_FragColor.rgb, uHazeC, (vBid > .5 ? .45 : .25) * uAir * hkMain);
+  float hkMain = abs(vBid - uFocus) < .5 && abs(hkL.x) < uMainB.x && abs(hkL.z) < uMainB.y ? 0.0 : 1.0, hkK = vBid > .5 ? .45 : .25;
+  // 主棟の外形に重なる物と、8px 以内に接する物: 奥と脇の物(隣の屋根・木)は .85 まで溶かす。手前の物(街灯)と、病院の主棟の外の部分(右の翼・救急口・スロープ)は、
+  // 寄るのに合わせて点描で消す(空気の色の影や縁の線を、建物の上に残さない)。地面の面と、倒れる前の壁(と車寄せ)は数えない(足もとに明るい縁や穴を作らない。壁のひらき方は町と同じ)
+  if (hkMain > .5 && vCut < 1.5 && hkL.y > uMainY.x + .03) {
+    vec2 s1 = hkSpan(hkL, vec3(-uMainB.x, uMainY.x, -uMainB.y), vec3(uMainB.x, uMainY.y, uMainB.y)), s2 = hkSpan(hkL, vec3(uMainP.x, uMainY.z, uMainP.z), vec3(uMainP.y, uMainY.w, uMainP.w));
+    bool h1 = s1.x <= s1.y, h2 = s2.x <= s2.y;
+    if (h1 || h2) {
+      bool front = (h1 && s1.x > 2.0 * uMainD.w) || (h2 && s2.x > 2.0 * uMainD.w);
+      if ((front || abs(vBid - uFocus) < .5) && hkBayer(gl_FragCoord.xy) < smoothstep(.2, .55, uAir)) discard;   // 点描で消えるのは p 約 .17〜.25 の間だけ(壁が倒れ始める前に消えきる。designer 見直し 第2回)
+      hkK = .85;
+    }
+  }
+  gl_FragColor.rgb = mix(gl_FragColor.rgb, uHazeC, hkK * uAir * hkMain);
 }`;
 const TM = {};
 function townMat(cls) {

diff --git a/proto/top-ad/hiraku6/interiors.js b/proto/top-ad/hiraku6/interiors.js
@@ -1096,6 +1096,8 @@ const BUILD = {
     });
     for (const [i, z0, z1, h] of DOOR) doorway(E, R, f[i], z0, z1, h, i === 0);
     const H = E.hpools;
+    // 病院の中に来る人の服(肌の3色と見分けられる色。色差 ΔE2000 20 以上。外を歩く人と最初の画面の公園の PALETTE.casual は変えない)
+    const VC = { parent: '#7A86A8', visit: '#8E6F8C', wheel: '#8C5E58', kid: '#CF5C5C', elder: '#8F8A84' };
 
     // ================= 1F 受付と待合 =================
     const y1 = f[0];
@@ -1131,22 +1133,22 @@ const BUILD = {
     // 受付の人(昼も夜も。夜は夜間の窓口)と、カウンターの前の人
     person(E, X(.3), y1, Z(-.8), 0, { kind: 'type', stand: true, cloth: P.office, night: true });
     person(E, X(.3), y1, Z(-.27), Math.PI, { cloth: P.casual[1], hold: 'card' });                       // 昼: 受付で待つ人
-    person(E, X(.24), y1, Z(-.27), Math.PI, { kind: 'talk', cloth: P.casual[0], night: true, day: false });   // 夜: 夜間の窓口に来た親と子
-    person(E, X(.41), y1, Z(-.2), Math.PI - .35, { cloth: '#E3A65B', night: true, day: false, s: .62 });
+    person(E, X(.24), y1, Z(-.27), Math.PI, { kind: 'talk', cloth: VC.parent, night: true, day: false });   // 夜: 夜間の窓口に来た親と子
+    person(E, X(.41), y1, Z(-.2), Math.PI - .35, { cloth: VC.kid, night: true, day: false, s: .62 });
     // 待合: 受付を向く2列のつながった椅子(背がこちら)。昼は来た人が座る
     const rowA = Z(.0), rowB = Z(.46), seatC = mix(P.chair, '#DCE3E6', .5);
     seatRow(E, S, y1, [X(-.46), X(-.26), X(-.06), X(.3), X(.5), X(.7)], rowA, Math.PI, seatC);
     seatRow(E, S, y1, [X(-.36), X(-.16), X(.04), X(.4), X(.6), X(.8)], rowB, Math.PI, seatC);
     const sit1 = (x, z, o) => person(E, x, y1 + .015, z, Math.PI, Object.assign({ kind: 'sit', fy: y1 }, o));
-    sit1(X(-.26), rowA, { cloth: mix(P.casual[2], '#7E7A76', .45), hold: 'cane', lean: .12, hp: .14 });   // 杖の高齢の人
+    sit1(X(-.26), rowA, { cloth: VC.elder, hold: 'cane', lean: .12, hp: .14 });   // 杖の高齢の人
     sit1(X(.5), rowA, { kind: 'look', cloth: mix(P.navy, '#4A5568', .3), hp: -.14 });                     // 会社員(表示を見上げる)
     sit1(X(-.16), rowB, { cloth: P.casual[3] });                                                           // 親と子
-    person(E, X(.04), y1 + .062, rowB, Math.PI, { kind: 'sit', cloth: '#E3A65B', fy: y1, s: .62 });
+    person(E, X(.04), y1 + .062, rowB, Math.PI, { kind: 'sit', cloth: VC.kid, fy: y1, s: .62 });
     // 車いすの人(列の右の端。横を向いて、受付のほうへ)
     const wcx = X(1.02), wcz = Z(.4), wcr = -2.3;
     grp(S, wcx, y1, wcz, wcr).foot(0, 0, .14 * k, .12 * k).box(0, .1 * k, 0, .1 * k, .015, .1 * k, P.dark).box(0, .11 * k, -.05 * k, .1 * k, .1 * k, .012, P.dark)
       .cyl(-.06 * k, 0, 0, .07 * k, .01, P.metalDark, false, 0, Math.PI / 2).cyl(.06 * k, 0, 0, .07 * k, .01, P.metalDark, false, 0, Math.PI / 2);
-    person(E, wcx, y1 - .03, wcz, wcr, { kind: 'sit', cloth: P.casual[4], fy: y1 });
+    person(E, wcx, y1 - .03, wcz, wcr, { kind: 'sit', cloth: VC.wheel, fy: y1 });
     // 待合の吊るした灯り(夜は消える)・植物
     for (const px of [X(-.12), X(.62)]) grp(S, px, E.fy(1) + .012 - E.N - .125 * k, Z(.8)).box(0, .055 * k, 0, .004, .07 * k, .004, P.dark).cone(0, 0, 0, .05 * k, .055 * k, mix(P.trim, '#F4E3C2', .4)).cyl(0, -.004, 0, .03 * k, .006, '#FFF3D6');
     plant(E, S, y1, X(-1.42), Z(.1), 1.1, 2); plant(E, S, y1, X(1.3), Z(.84), 1.2, 0);
@@ -1254,16 +1256,16 @@ const BUILD = {
     }
     grp(S, X(.88), y3, Z(-.4)).box(0, 0, 0, .1, .012, .1, P.metalDark).box(0, 0, 0, .012, .56 * k, .012, P.metal).box(0, .5 * k, 0, .04 * k, .07 * k, .02, '#DDE6EA', 0, 0, .5).box(.02, .36 * k, .008, .03, .03, .02, '#5E656D').box(.02, .37 * k, .019, .02, .012, .003, '#BFF0D8', 0, 0, 1.4);
     chair(E, S, y3, X(.12), Z(-.42), Math.PI - .55, P.chair2);
-    person(E, X(.12), y3, Z(-.42), Math.PI - .55, { kind: 'listen', cloth: P.casual[0], fy: y3 });                         // 見舞いの人(枕のほうを向いて話す)
+    person(E, X(.12), y3, Z(-.42), Math.PI - .55, { kind: 'listen', cloth: VC.visit, fy: y3 });                            // 見舞いの人(枕のほうを向いて話す)
     person(E, X(.74), y3, Z(-.46), 0, { kind: 'bend', cloth: P.scrub, lean: .3 });                                       // 看護師が手前のベッドの人をのぞく
     H.push(
-      { p: [X(-.4), y3 + .17, Z(-.55)], r: [.6, .45, .62], c: '#FFD9A8', k: [0, .3, .9] },                  // 卓上の灯り(ソファと奥の壁まで)
+      { p: [X(-.4), y3 + .17, Z(-.55)], r: [.74, .5, .72], c: '#FFD9A8', k: [0, .3, 1.4] },                // 卓上の灯り(ソファと奥の壁まで。夜は休憩室がいちばん先に目に入る階なので、病室より明るく)
       { p: [hm0.x, hm0.y, hm0.z + .03], r: [.17, .17, .17], c: '#DCE8FF', k: [0, .22, .85] },            // スマホの光
       { p: [X(.1), y3 + .24, Z(-.86)], r: [.32, .3, .28], c: '#FFDFB0', k: [0, .2, .7] },                   // ベッド脇(奥)
       { p: [X(1.02), y3 + .24, Z(-.38)], r: [.28, .3, .26], c: '#FFDFB0', k: [0, .18, .62] },               // ベッド脇(手前)
       { p: [X(.9), y3 + .37, Z(-.39)], r: [.09, .09, .09], c: '#E8FFF4', k: [0, .2, .55] },                // 点滴の小さな灯り
-      { p: [X(-1.36), y3 + .3, Z(-.84)], r: [.28, .3, .26], c: '#FFE6C4', k: [0, .2, .6] },                // 流しの手元
-      { p: [X(-1.42), y3 + .3, Z(-.2)], r: [.45, .55, .8], c: '#FFF0DC', k: [0, .15, .5] },                // 廊下の戸口からの常夜灯
+      { p: [X(-1.36), y3 + .3, Z(-.84)], r: [.38, .36, .34], c: '#FFE6C4', k: [0, .2, 1.1] },              // 流しの手元(夜は、お茶を入れる人が暗がりに溶けないように)
+      { p: [X(-1.42), y3 + .3, Z(-.2)], r: [.45, .55, .8], c: '#FFF0DC', k: [0, .15, .62] },               // 廊下の戸口からの常夜灯
       { p: [X(-.4), y3 + .36, Z(-.25)], r: [1.9, .65, 1.35], c: ['#FFF8EE', '#F4EFE8', '#E6ECFA'], k: [.16, .07, .1] },   // 昼は窓からの光、夜は部屋の弱い光(床を真っ黒にしない)
       { type: 1, p: [X(-.62), y3, Z(-.12)], r: [.3, 0, .15], skew: .45, c: ['#FFF4DE', '#FFD2A0', '#FFF4DE'], k: [1.0, .5, 0] },   // 日だまり
       { type: 1, p: [X(.3), y3, Z(-.36)], r: [.2, 0, .15], skew: .45, c: ['#FFF4DE', '#FFD2A0', '#FFF4DE'], k: [.95, .46, 0] },

diff --git a/proto/top-ad/hiraku6/index.html b/proto/top-ad/hiraku6/index.html
@@ -306,7 +306,7 @@ html.paused .nr{animation-play-state:paused}   /* 止めるボタンで、この
    空・光・見出しの帯は最初の画面のまま(紙の面に切り替えない)。言葉は最初の画面の一行と同じ場所に小さく、道具の札は町の名前の札と同じ形 */
 main:focus{outline:none}
 .stage{position:relative;background:rgb(var(--mist))}   /* 舞台の地は、その時刻の空の下の色(スマホのブラウザの帯が畳まれて画面が伸びても、舞台の下に紙の色を覗かせない) */
-html.js .stage{height:calc(100vh + var(--span,180vh));height:calc(100lvh + var(--span,180svh))}   /* JS が動くときだけ: 最初の画面 + 舞台の進み(--span)。JS なしでは止まったままの長い面を作らない */
+html.js .stage{height:calc(100vh + var(--span,150vh));height:calc(100lvh + var(--span,150svh))}   /* JS が動くときだけ: 最初の画面 + 舞台の進み(--span)。JS なしでは止まったままの長い面を作らない */
 .stage > .hero{position:sticky;top:0;max-height:none;height:100vh;height:100lvh}   /* 舞台の間の町と病院は、ブラウザの帯が畳まれたときの高さ(lvh)で描く: 帯が開閉しても絵の大きさは変わらず、病院の下に地の色を覗かせない。言葉と入口は帯が出ているときの高さ(svh)の中に置く(--tb) */
 :root{--tb:0px}
 @supports (height:100lvh){:root{--tb:calc(100lvh - 100svh)}}   /* ブラウザの帯の高さ(帯が出ている間は、絵の下の端の --tb ぶんが帯の下に隠れる) */
